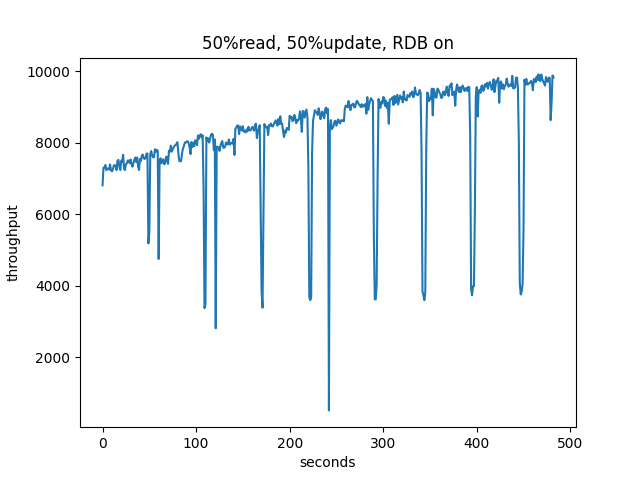
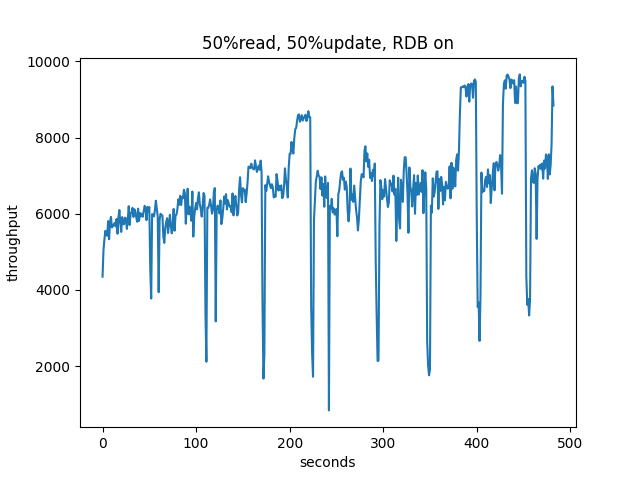
log analysis

diff --git a/plot.py b/plot.py
@@ -7,7 +7,7 @@ plt.plot(result)
 plt.title("50%read, 50%update, RDB off")
 plt.xlabel("seconds")
 plt.ylabel("throughput")
-plt.savefig("50%read_50%update_noRDB.png")
+plt.savefig("result/50%read_50%update_noRDB.png")
 
 with open("throughput_9_noRDB.txt") as f:
     result = [float(line.strip()) for line in f]
@@ -16,7 +16,7 @@ plt.plot(result)
 plt.title("90%read, 10%update, RDB off")
 plt.xlabel("seconds")
 plt.ylabel("throughput")
-plt.savefig("90%read_10%update_noRDB.png")
+plt.savefig("result/90%read_10%update_noRDB.png")
 
 with open("throughput_5_RDB.txt") as f:
     result = [float(line.strip()) for line in f]
@@ -25,7 +25,7 @@ plt.plot(result)
 plt.title("50%read, 50%update, RDB on")
 plt.xlabel("seconds")
 plt.ylabel("throughput")
-plt.savefig("50%read_50%update_RDB.png")
+plt.savefig("result/50%read_50%update_RDB.png")
 
 with open("throughput_9_RDB.txt") as f:
     result = [float(line.strip()) for line in f]
@@ -34,4 +34,4 @@ plt.plot(result)
 plt.title("90%read, 10%update, RDB on")
 plt.xlabel("seconds")
 plt.ylabel("throughput")
-plt.savefig("90%read_10%update_RDB.png")
+plt.savefig("result/90%read_10%update_RDB.png")

diff --git a/README.md b/README.md
@@ -54,8 +54,10 @@ We crash the redis server at 1 min, 2 min and 4 min.
 
 + With RDB on, the performance drop comes mainly from the black out time, and the recovery performance is high.
 
++ The throughput has several drops between the crashes. After examineing the redis log, it may due to the cost of saving RDB file on disk and forking new process for background saving. Note that by default, Redis will save the DB about every 1 minute and 5 minute.
+
 ## Week Plan:
 
-+ Try to crash at longer time-intervals so that the system can fully warm up.
++ Retest the experiment. The DB loading time is longer than I expected and I reconnect to the server before it actually finishes loading, which makes the program abort. 
 
 + Test it with Phoenix as frontend.
